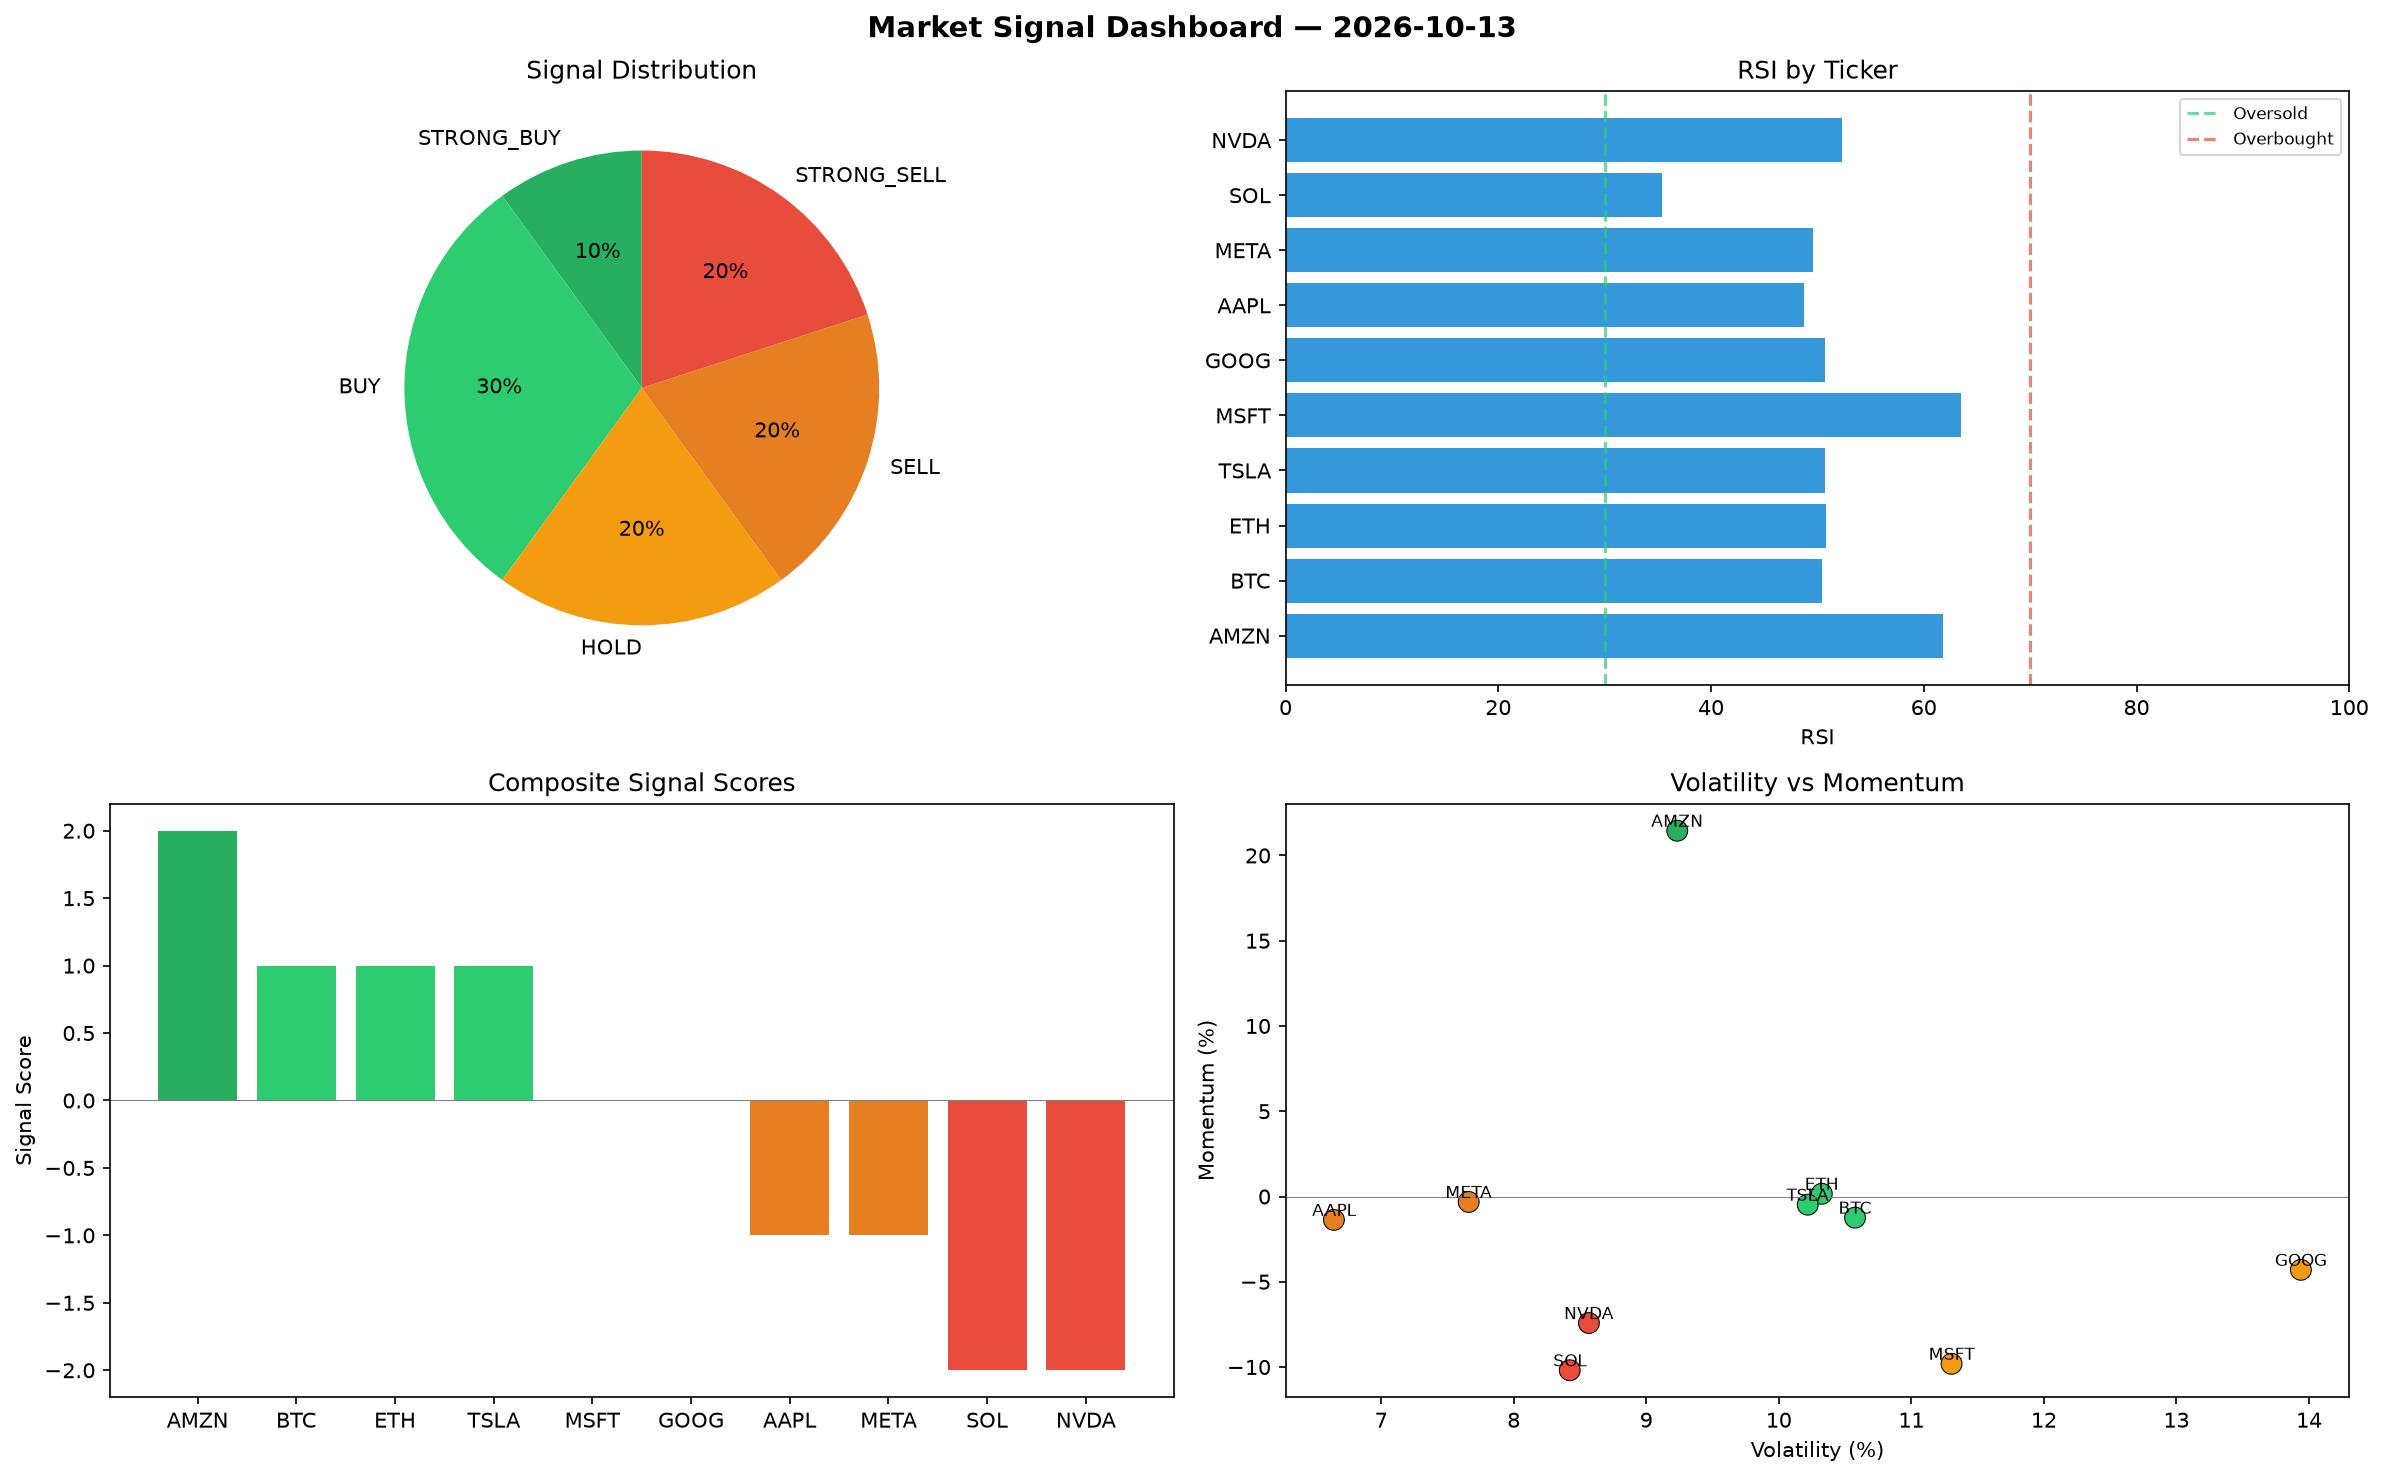
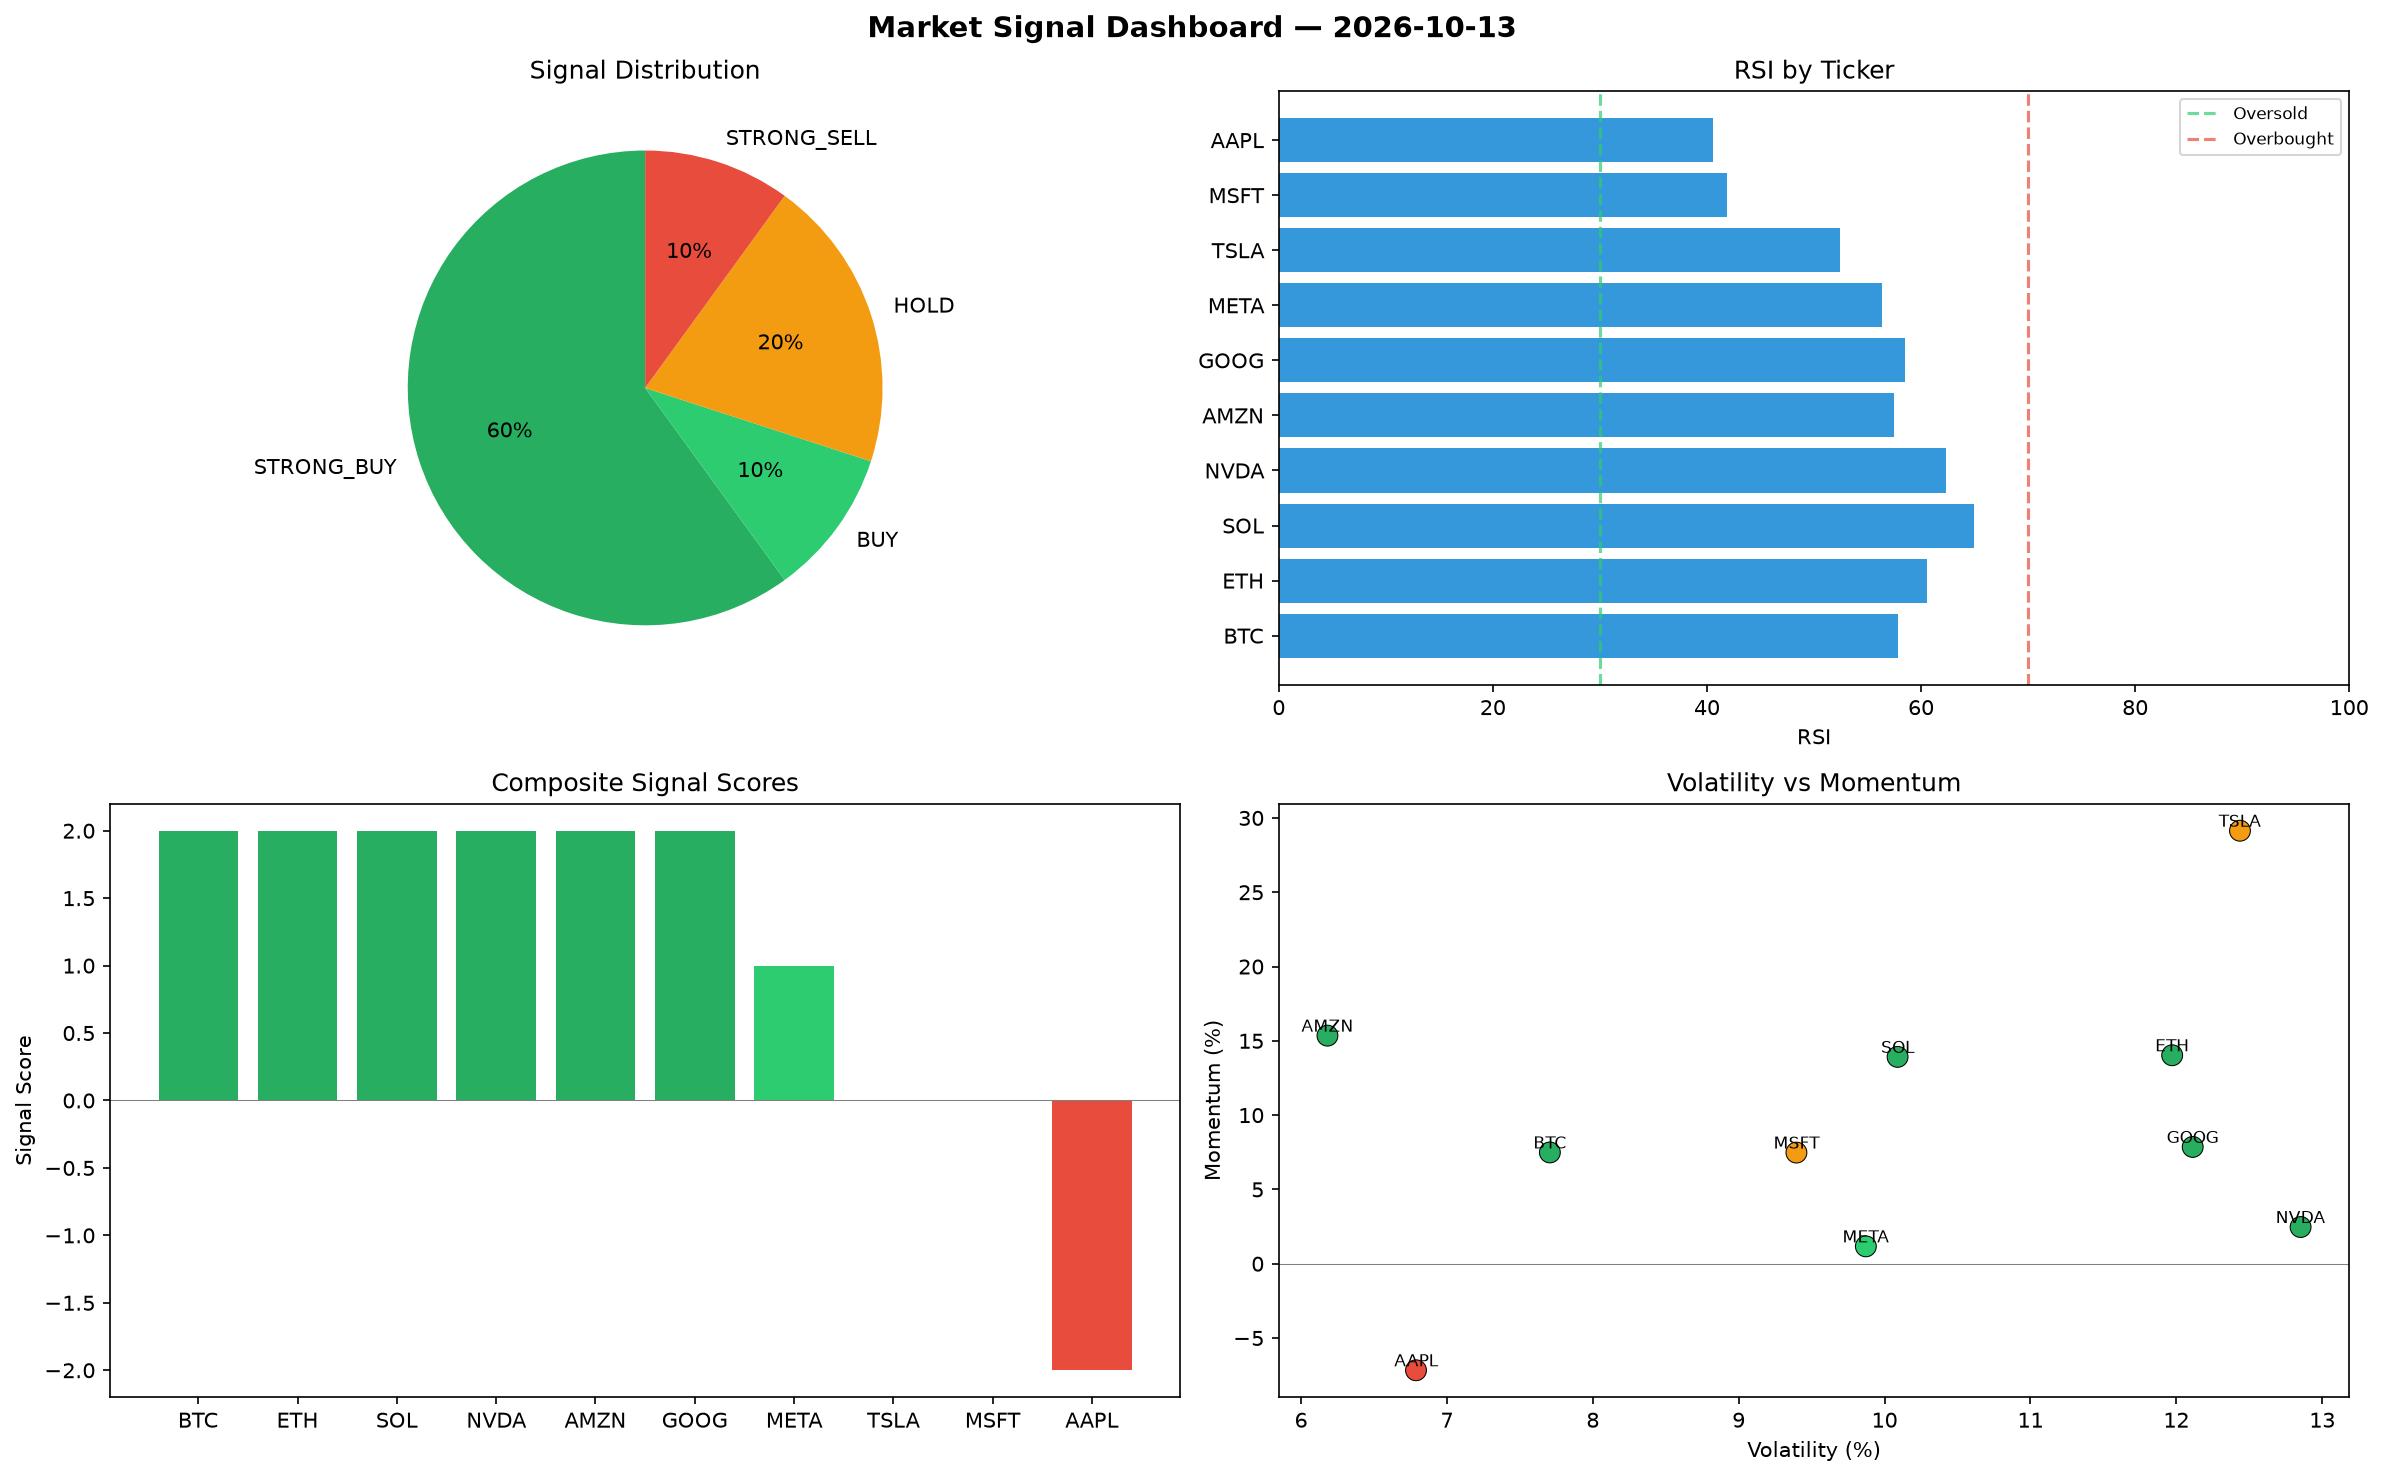
automated-bots: market signals 2026-10-13T23:46

diff --git a/logs/2026-10-13.md b/logs/2026-10-13.md
@@ -1,6 +1,6 @@
 # Market Signal Report — 2026-10-13
 
-**Run ID:** `defe82f750` | **Buy:** 4 | **Sell:** 4 | **Hold:** 2
+**Run ID:** `c64e4d9832` | **Buy:** 7 | **Sell:** 1 | **Hold:** 2
 
 ![Dashboard](2026-10-13_dashboard.png)
 
@@ -8,28 +8,28 @@
 
 | Ticker | Price | Signal | Score | RSI | Momentum | Confidence |
 |--------|-------|--------|-------|-----|----------|------------|
-| AMZN | $2641.35 | **STRONG_BUY** | 2 | 61.77 | 0.2145 | 0.5 |
-| BTC | $1995.12 | **BUY** | 1 | 50.43 | -0.0124 | 0.25 |
-| ETH | $38.36 | **BUY** | 1 | 50.77 | 0.0016 | 0.25 |
-| TSLA | $4386.44 | **BUY** | 1 | 50.7 | -0.0048 | 0.25 |
-| MSFT | $3702.71 | **HOLD** | 0 | 63.48 | -0.0981 | 0.0 |
-| GOOG | $1166.96 | **HOLD** | 0 | 50.7 | -0.043 | 0.0 |
-| AAPL | $4683.19 | **SELL** | -1 | 48.75 | -0.0137 | 0.25 |
-| META | $3552.34 | **SELL** | -1 | 49.58 | -0.0032 | 0.25 |
-| SOL | $4862.11 | **STRONG_SELL** | -2 | 35.38 | -0.1019 | 0.5 |
-| NVDA | $2378.39 | **STRONG_SELL** | -2 | 52.28 | -0.0742 | 0.5 |
+| BTC | $2700.65 | **STRONG_BUY** | 2 | 57.86 | 0.0749 | 0.5 |
+| ETH | $3725.83 | **STRONG_BUY** | 2 | 60.56 | 0.1403 | 0.5 |
+| SOL | $3039.72 | **STRONG_BUY** | 2 | 64.93 | 0.1392 | 0.5 |
+| NVDA | $3636.15 | **STRONG_BUY** | 2 | 62.31 | 0.0247 | 0.5 |
+| AMZN | $4895.39 | **STRONG_BUY** | 2 | 57.51 | 0.1535 | 0.5 |
+| GOOG | $4320.07 | **STRONG_BUY** | 2 | 58.5 | 0.0786 | 0.5 |
+| META | $2979.73 | **BUY** | 1 | 56.34 | 0.0117 | 0.25 |
+| TSLA | $5048.41 | **HOLD** | 0 | 52.44 | 0.2914 | 0.0 |
+| MSFT | $4504.06 | **HOLD** | 0 | 41.88 | 0.0748 | 0.0 |
+| AAPL | $531.7 | **STRONG_SELL** | -2 | 40.58 | -0.0717 | 0.5 |
 
 ## Delta vs Yesterday
 
 | Ticker | Today | Yesterday | Price Change | Signal Changed |
 |--------|-------|-----------|-------------|----------------|
-| AMZN | STRONG_BUY | BUY | 📉 -40.69% | ⚠ YES |
-| BTC | BUY | STRONG_BUY | 📈 141.42% | ⚠ YES |
-| ETH | BUY | SELL | 📉 -98.68% | ⚠ YES |
-| TSLA | BUY | HOLD | 📈 160.48% | ⚠ YES |
-| MSFT | HOLD | STRONG_SELL | 📉 -4.4% | ⚠ YES |
-| GOOG | HOLD | STRONG_SELL | 📈 4.16% | ⚠ YES |
-| AAPL | SELL | STRONG_SELL | 📈 14.62% | ⚠ YES |
-| META | SELL | HOLD | 📈 407.55% | ⚠ YES |
-| SOL | STRONG_SELL | HOLD | 📈 0.47% | ⚠ YES |
-| NVDA | STRONG_SELL | STRONG_SELL | 📉 -47.86% | — |
+| BTC | STRONG_BUY | STRONG_BUY | 📈 226.8% | — |
+| ETH | STRONG_BUY | SELL | 📈 28.28% | ⚠ YES |
+| SOL | STRONG_BUY | HOLD | 📉 -37.19% | ⚠ YES |
+| NVDA | STRONG_BUY | STRONG_SELL | 📉 -20.29% | ⚠ YES |
+| AMZN | STRONG_BUY | BUY | 📈 9.93% | ⚠ YES |
+| GOOG | STRONG_BUY | STRONG_SELL | 📈 285.59% | ⚠ YES |
+| META | BUY | HOLD | 📈 325.74% | ⚠ YES |
+| TSLA | HOLD | HOLD | 📈 199.79% | — |
+| MSFT | HOLD | STRONG_SELL | 📈 16.3% | ⚠ YES |
+| AAPL | STRONG_SELL | STRONG_SELL | 📉 -86.99% | — |
